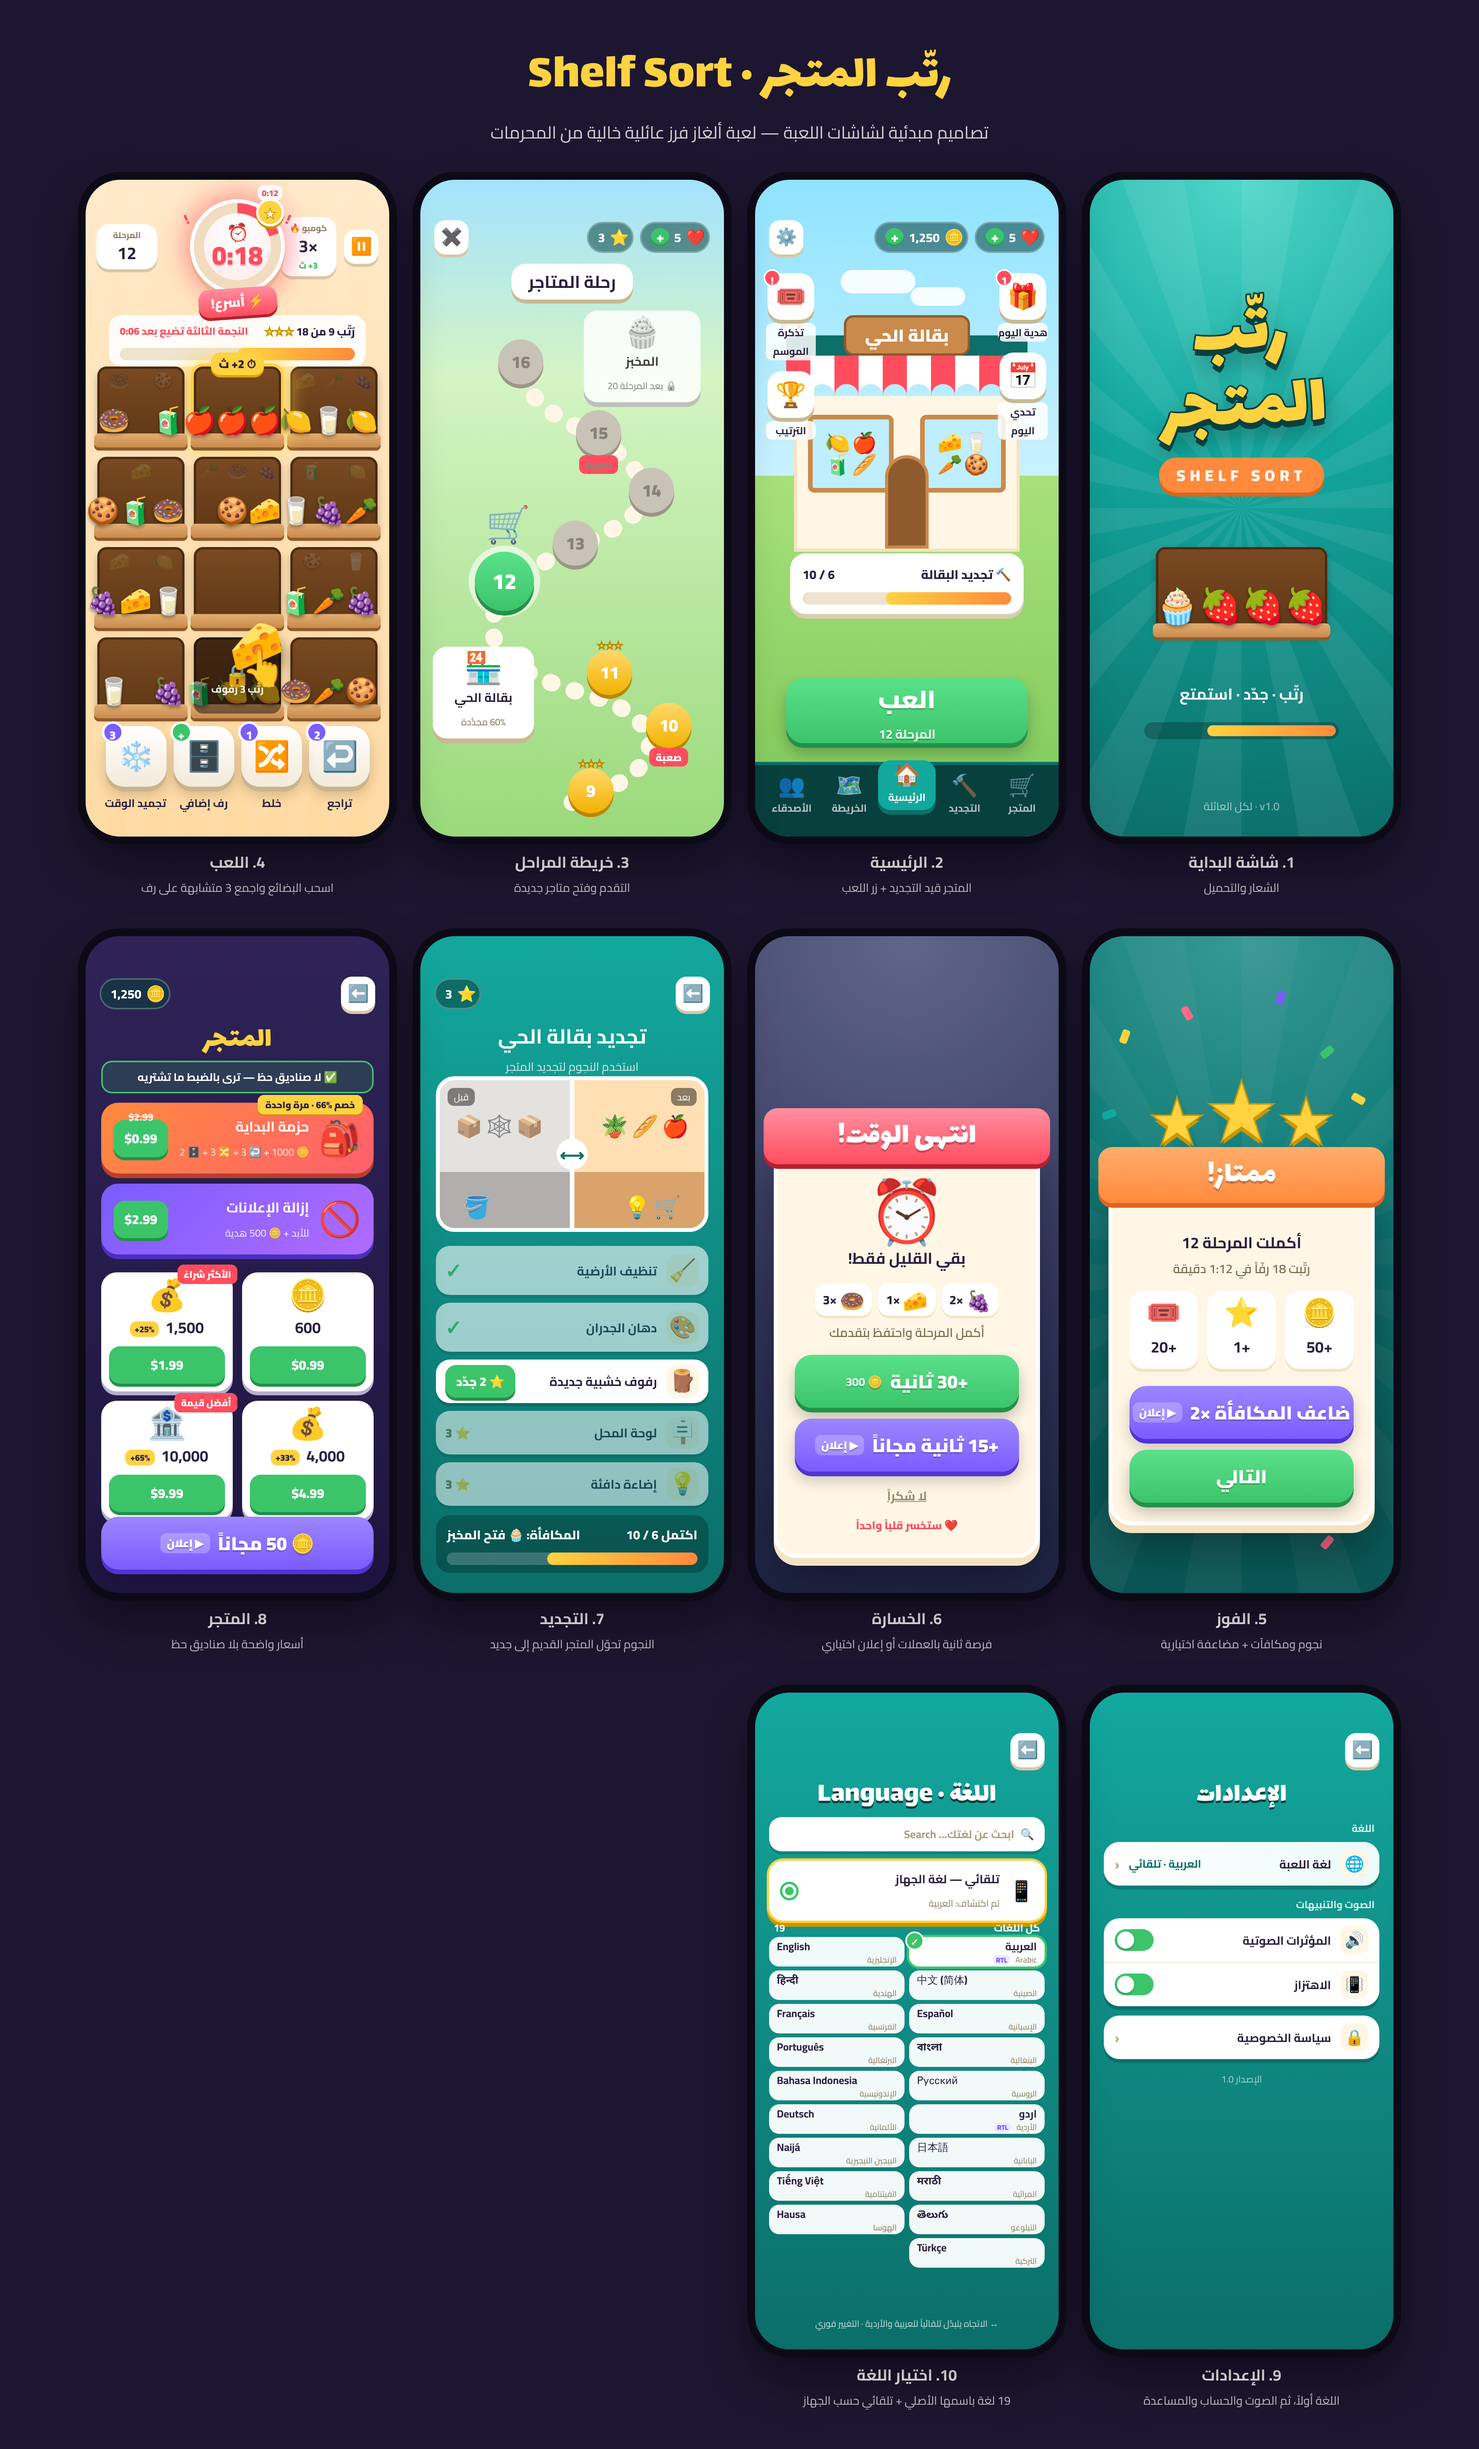
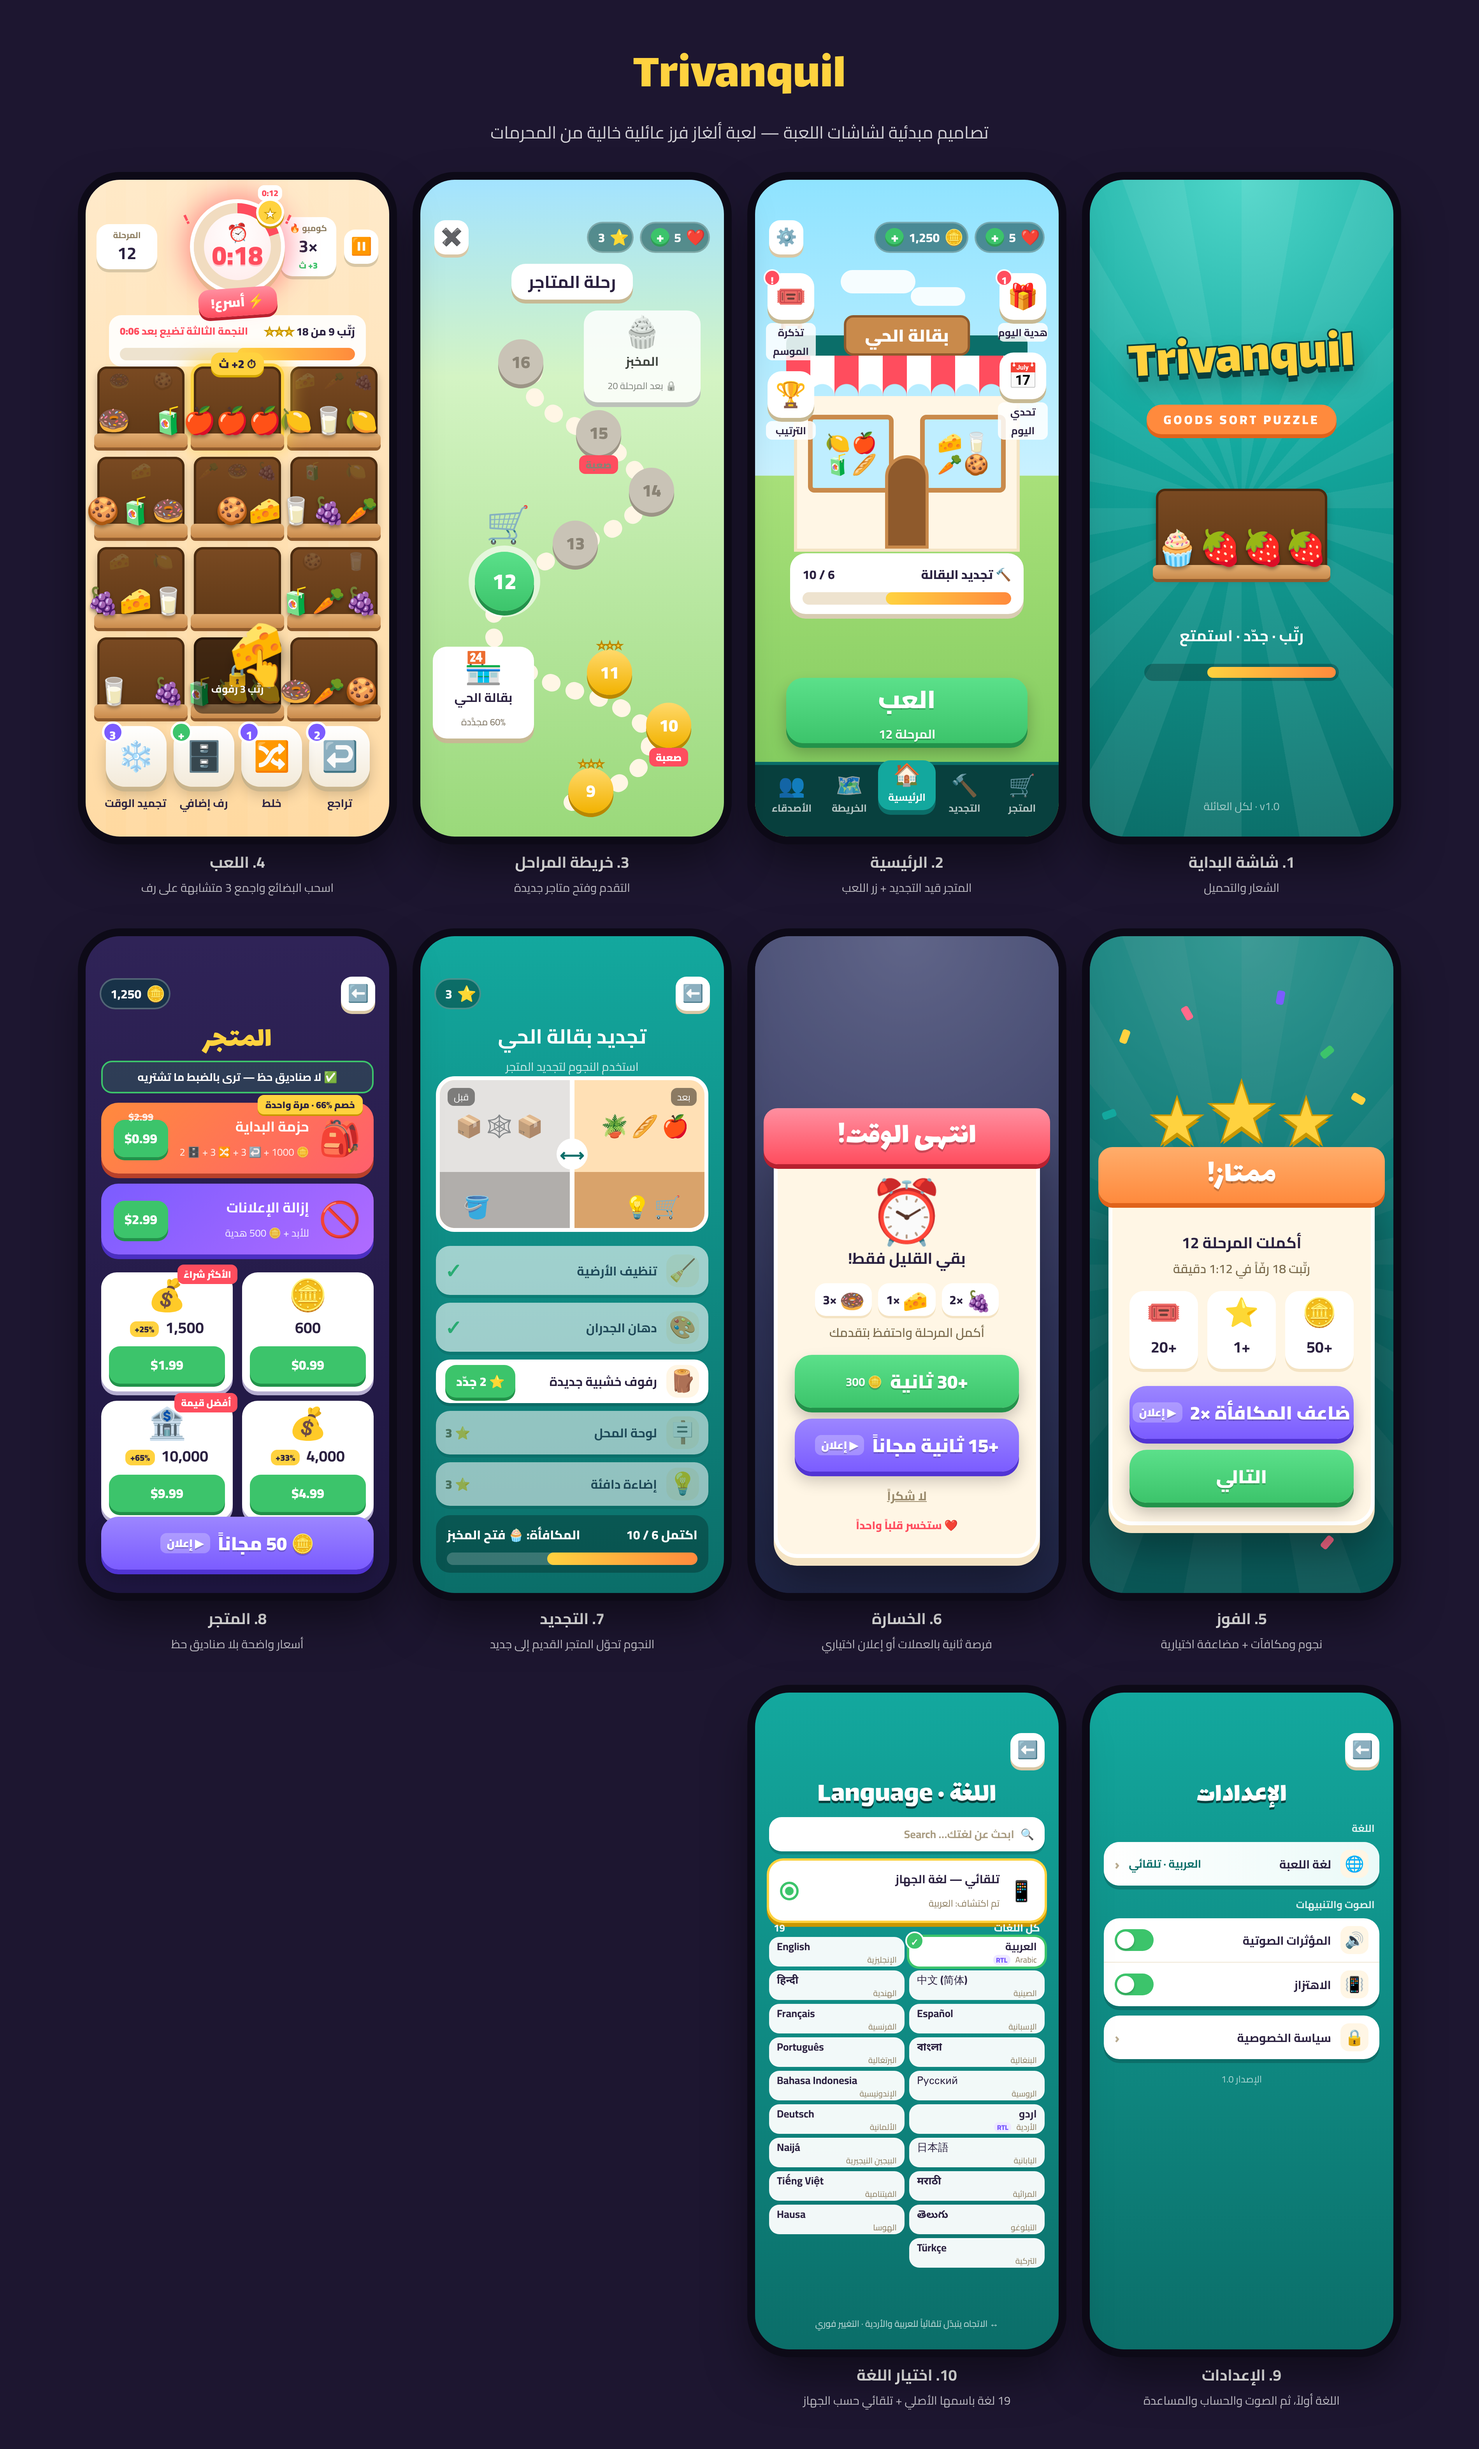
Mockups: rename game to Trivanquil
Claude-Session: https://claude.ai/code/session_0198GSpUHpAsMi38EfXjb44N

Changed region(s): [[0.7453, 0.1246, 0.9316, 0.3114], [0.3726, 0.0, 0.59, 0.0311], [0.59, 0.0311, 0.6521, 0.0623]]

diff --git a/design/mockups/shelf-sort-mockups.html b/design/mockups/shelf-sort-mockups.html
@@ -2,7 +2,7 @@
 <html lang="ar" dir="rtl">
 <head>
 <meta charset="utf-8">
-<title>رتّب المتجر — تصاميم الشاشات</title>
+<title>Trivanquil — تصاميم الشاشات</title>
 <style>
 @font-face { font-family: "Cairo"; src: url("fonts/Cairo.ttf"); font-weight: 200 1000; }
 @font-face { font-family: "Lalezar"; src: url("fonts/Lalezar-Regular.ttf"); }
@@ -334,7 +334,7 @@ body { font-family: "Cairo", sans-serif; background: #1d1630; color: var(--ink);
 <body>
 
 <header class="page-head">
-  <h1>رتّب المتجر · Shelf Sort</h1>
+  <h1>Trivanquil</h1>
   <p>تصاميم مبدئية لشاشات اللعبة — لعبة ألغاز فرز عائلية خالية من المحرمات</p>
 </header>
 
@@ -344,8 +344,8 @@ body { font-family: "Cairo", sans-serif; background: #1d1630; color: var(--ink);
 <figure class="cell">
 <div class="phone bg-shop splash" id="s1">
   <div class="sun"></div>
-  <div class="logo">رتّب<br>المتجر</div>
-  <div class="logo-en">SHELF SORT</div>
+  <div class="logo" style="font-size:68px;margin-top:46px">Trivanquil</div>
+  <div class="logo-en" style="letter-spacing:3px;font-size:16px;margin-top:22px">GOODS SORT PUZZLE</div>
   <div class="hero-shelf">
     <div class="shelf" style="width:220px;height:110px">
       <div class="front"><i class="emoji" style="font-size:44px">🍓</i><i class="emoji" style="font-size:44px">🍓</i><i class="emoji" style="font-size:44px">🍓</i><i class="emoji" style="font-size:44px">🧁</i></div>
